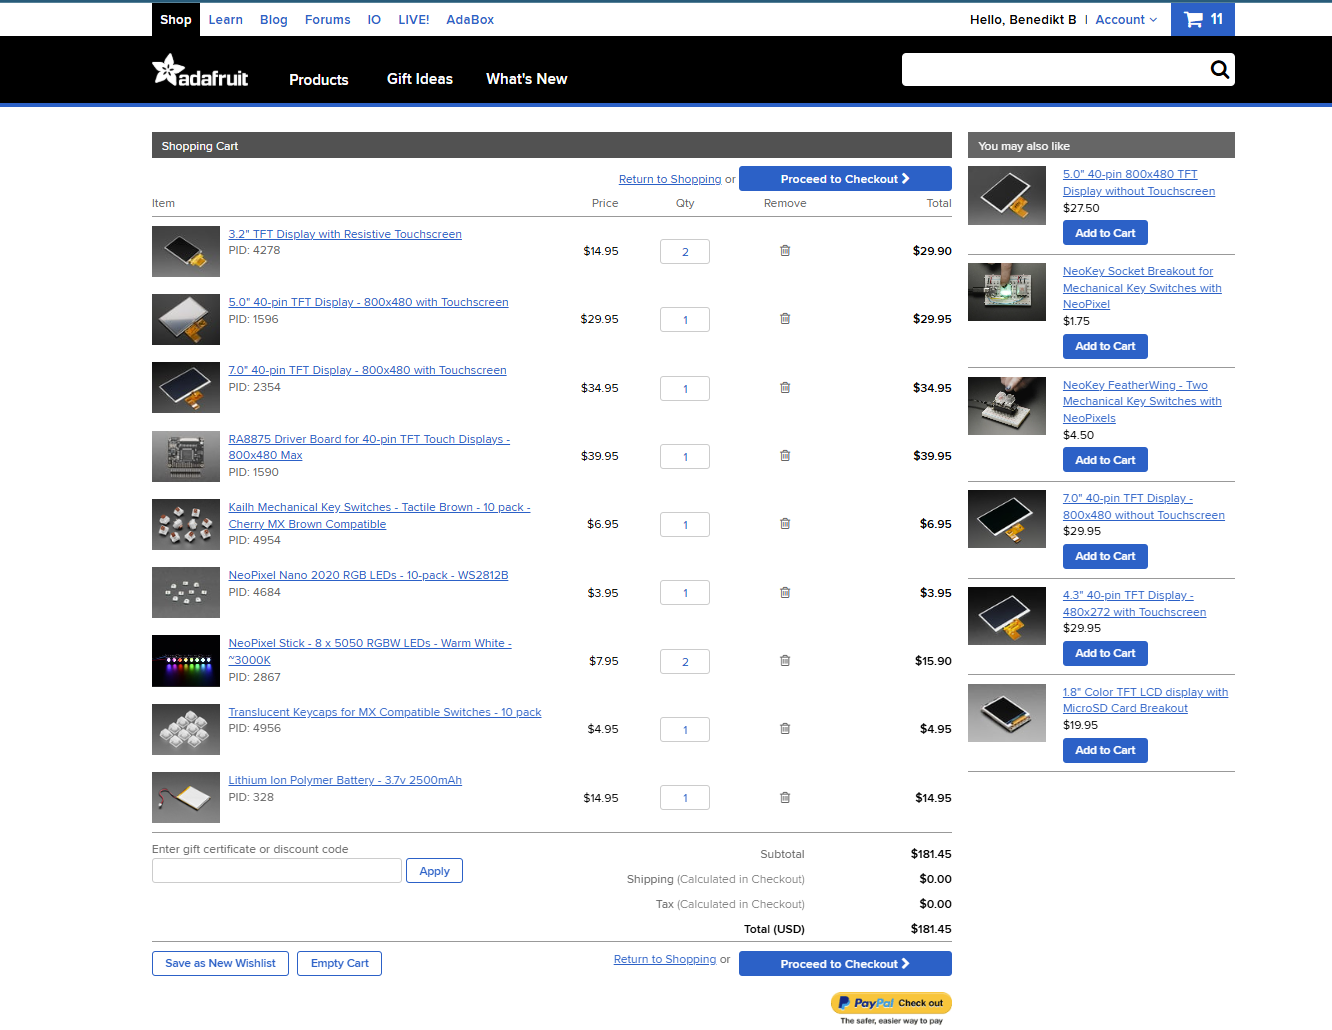
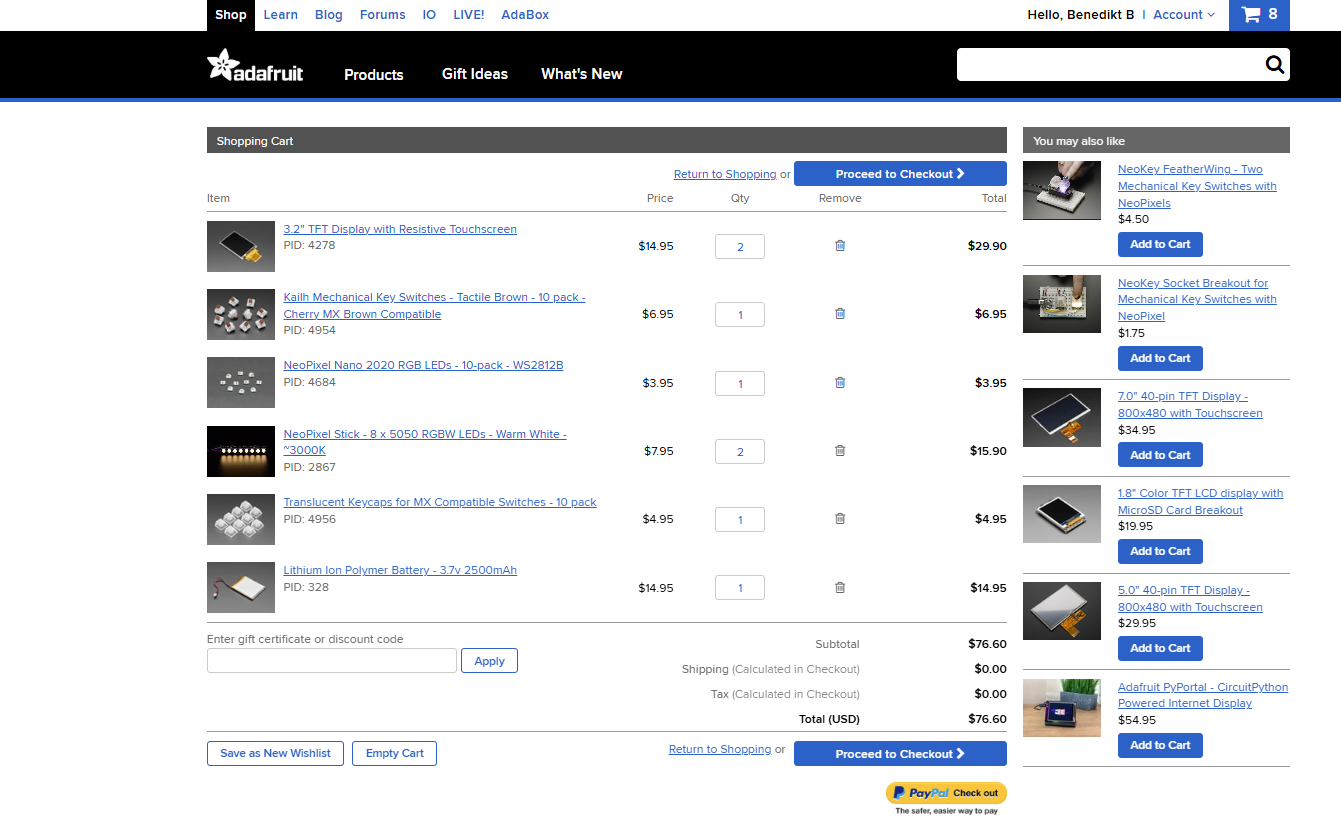
updated cart image and corrected time spent today

diff --git a/JOURNAL.md b/JOURNAL.md
@@ -5,7 +5,6 @@ Description: "A monitoring and control unit of a smart irrigation system with so
 Created On: "13/04/2026"
 Total hours: ~ 175h (my mum says thier actually *much more*...)
 ---
-
 # Journal
 
 ## April 13, 2026
@@ -57,8 +56,6 @@ In the end, I decided to wire the display directly to the ESP32 and accept the r
 
 ![DisplayTest](images/Progress/20260612_181839.jpg)
 ↑ First Image on Display. There were still errors like you can see :(
-
-
 
 Time spent: 6 h
 This included trial and error, research and consideration of different possible solutions.
@@ -181,7 +178,6 @@ I tested the boards and as soon I as I drawed some current at some parts the cp2
 
 ![Problem](images/Progress/20260803_174404.jpg)
 
-
 Time spend: 8h
 
 ## July 29, 2026
@@ -223,8 +219,6 @@ Time spend: 2h
 
 ![working](images/Progress/IMG-20260620-WA0004.jpeg)
 
-
-
 ## August 3, 2026
 
 My goal for today was to get the LEDs working properly And to address the ADCs. But before I could start I had to realise that again some connectors didn't properly connect. So again soldering of wires that don't want to stick in the holes they're supposed to.
@@ -235,8 +229,6 @@ But then I started wir a new board. I learned from my mistakes with board 1 and 
 Time spend: 9h
 
 ![Struggle](images/Progress/20260803_125140.jpg)
-
-
 
 ## September 15, 2026
 
@@ -331,7 +323,6 @@ Time spent: 2h
 ## November 16, 2026
 
 I corrected mistakes in the Readme and deleted Plan B items for saving cost. I added Images to the Journal. I checked the schematic one more time.
-Time spent: 2.5h
+Time spent: 3.5h
 
 ![Image](images/Progress/Readme.png)
-
